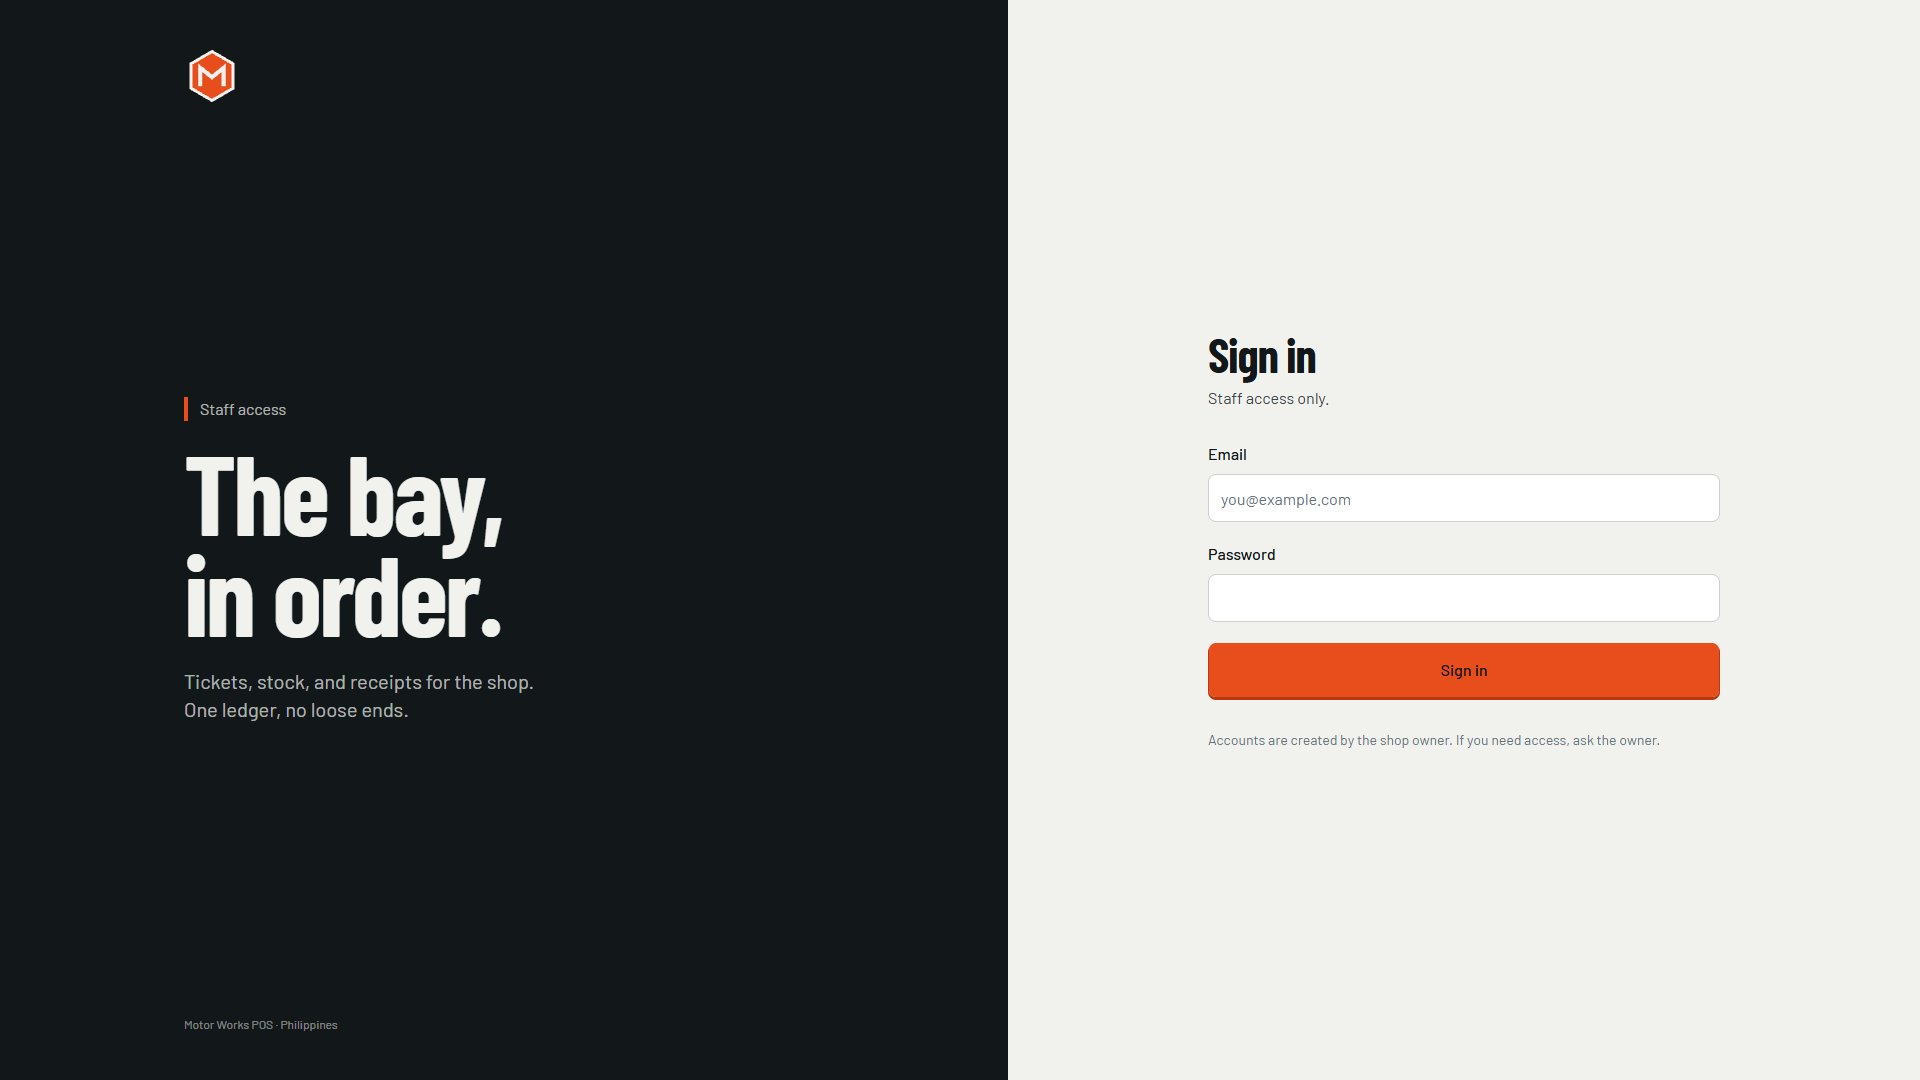
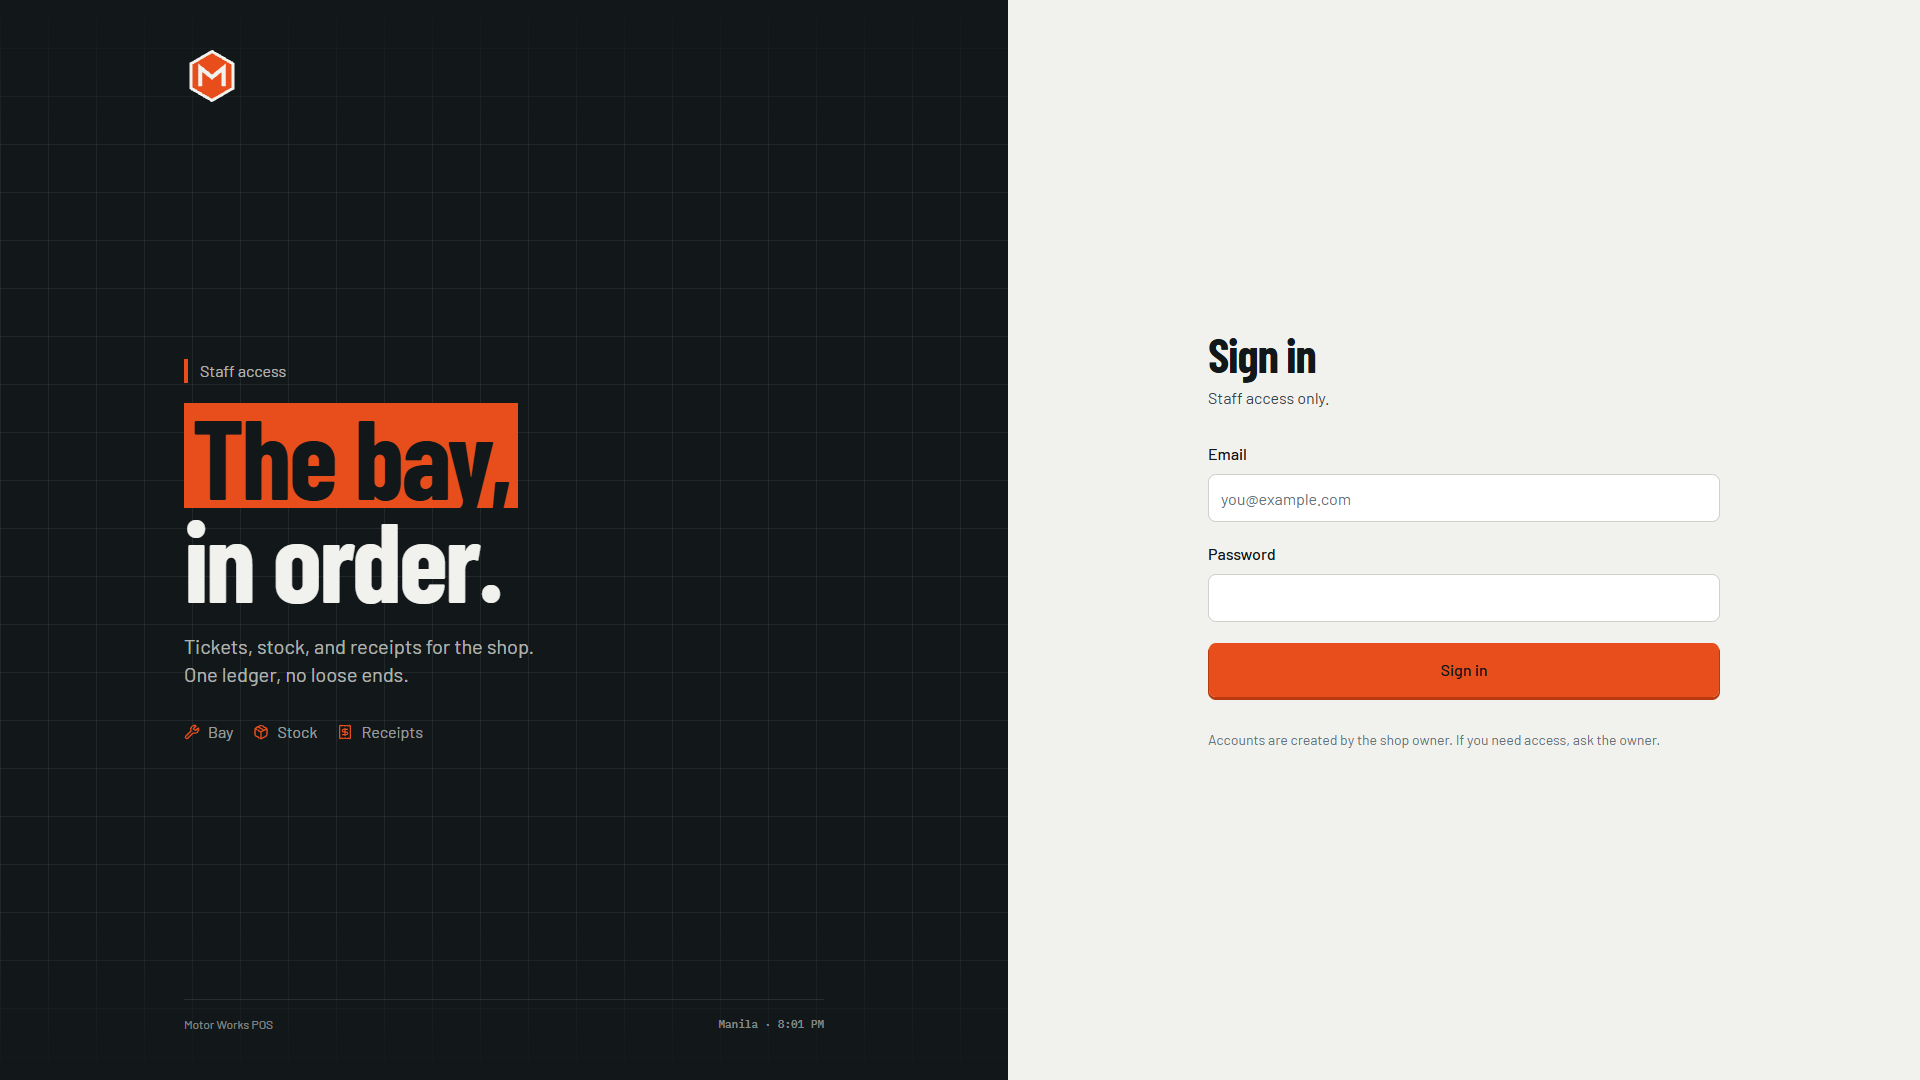
style: add workshop details to the login brand panel

Changed region(s): [[0.0938, 0.3361, 0.2812, 0.7028]]

diff --git a/src/features/auth/LoginPage.tsx b/src/features/auth/LoginPage.tsx
@@ -1,4 +1,5 @@
 import { zodResolver } from '@hookform/resolvers/zod';
+import { Package, Receipt, Wrench } from 'lucide-react';
 import { useEffect, useState } from 'react';
 import { useForm } from 'react-hook-form';
 import { useNavigate } from 'react-router';
@@ -8,6 +9,7 @@ import { FullPageLoading } from '@/components/FullPageLoading';
 import { Button } from '@/components/ui/button';
 import { Input } from '@/components/ui/input';
 import { Label } from '@/components/ui/label';
+import { useManilaClock } from '@/hooks/use-manila-clock';
 import { AppError } from '@/lib/errors';
 
 import { loginSchema, type LoginValues } from './schemas';
@@ -16,6 +18,7 @@ import { useAuth } from './use-auth';
 export function LoginPage() {
   const { status, signIn, error: authError } = useAuth();
   const navigate = useNavigate();
+  const manilaTime = useManilaClock();
   const [formError, setFormError] = useState<string | null>(null);
 
   const {
@@ -56,8 +59,10 @@ export function LoginPage() {
 
   return (
     <main className="bg-paper min-h-screen md:grid md:grid-cols-[1.05fr_0.95fr]">
-      <section className="bg-ink text-paper hidden p-8 md:flex xl:p-12">
-        <div className="mx-auto grid h-full w-full max-w-[40rem] grid-rows-[auto_1fr_auto]">
+      <section className="bg-ink text-paper relative hidden overflow-hidden p-8 md:flex xl:p-12">
+        <div aria-hidden="true" className="blueprint-grid pointer-events-none absolute inset-0" />
+
+        <div className="relative mx-auto grid h-full w-full max-w-[40rem] grid-rows-[auto_1fr_auto]">
           <BrandMark className="text-paper size-12 xl:size-14" title="Motor Works" />
 
           <div className="flex flex-col justify-center py-10">
@@ -65,7 +70,7 @@ export function LoginPage() {
               Staff access
             </p>
             <h1 className="font-display text-paper text-[clamp(3.25rem,6vw,7rem)] leading-[0.9] font-bold tracking-tight">
-              The bay,
+              <span className="bg-safety text-ink inline-block px-2 py-0.5">The bay,</span>
               <br />
               in order.
             </h1>
@@ -73,17 +78,38 @@ export function LoginPage() {
               Tickets, stock, and receipts for the shop.{' '}
               <span className="xl:block">One ledger, no loose ends.</span>
             </p>
+
+            <div className="text-paper/60 mt-8 flex flex-wrap items-center gap-x-5 gap-y-2 text-sm xl:text-base">
+              <span className="inline-flex items-center gap-2">
+                <Wrench className="text-safety size-4" aria-hidden="true" />
+                Bay
+              </span>
+              <span className="inline-flex items-center gap-2">
+                <Package className="text-safety size-4" aria-hidden="true" />
+                Stock
+              </span>
+              <span className="inline-flex items-center gap-2">
+                <Receipt className="text-safety size-4" aria-hidden="true" />
+                Receipts
+              </span>
+            </div>
           </div>
 
-          <p className="text-paper/50 text-xs">Motor Works POS · Philippines</p>
+          <div className="border-paper/10 text-paper/50 flex items-center justify-between gap-4 border-t pt-4 text-xs">
+            <span>Motor Works POS</span>
+            <span className="font-mono text-[11px]">Manila · {manilaTime}</span>
+          </div>
         </div>
       </section>
 
       <section className="flex min-h-screen items-center justify-center px-5 py-10 md:min-h-0 md:px-8 xl:px-12">
         <div className="w-full max-w-md xl:max-w-lg">
-          <div className="mb-8 md:hidden">
-            <BrandMark className="size-12" title="Motor Works" />
-            <p className="font-display mt-4 text-2xl font-bold tracking-tight">Motor Works POS</p>
+          <div className="mb-8 flex items-start justify-between gap-4 md:hidden">
+            <div>
+              <BrandMark className="size-12" title="Motor Works" />
+              <p className="font-display mt-4 text-2xl font-bold tracking-tight">Motor Works POS</p>
+            </div>
+            <span className="text-steel font-mono text-xs">Manila · {manilaTime}</span>
           </div>
 
           <h2 className="font-display text-4xl font-bold tracking-tight xl:text-5xl">Sign in</h2>

diff --git a/src/styles/globals.css b/src/styles/globals.css
@@ -76,6 +76,23 @@
   --color-ring: var(--ring);
 }
 
+.blueprint-grid {
+  background-image:
+    linear-gradient(
+      to right,
+      color-mix(in oklab, var(--color-paper) 7%, transparent) 1px,
+      transparent 1px
+    ),
+    linear-gradient(
+      to bottom,
+      color-mix(in oklab, var(--color-paper) 7%, transparent) 1px,
+      transparent 1px
+    );
+  background-size: 48px 48px;
+  -webkit-mask-image: linear-gradient(to bottom, transparent, #000 15%, #000 85%, transparent);
+  mask-image: linear-gradient(to bottom, transparent, #000 15%, #000 85%, transparent);
+}
+
 @layer base {
   * {
     border-color: var(--border);

diff --git a/tests/unit/login.test.tsx b/tests/unit/login.test.tsx
@@ -25,6 +25,15 @@ function renderLogin(value: AuthContextValue) {
   );
 }
 
+test('shows the shop capabilities and the Manila clock', () => {
+  renderLogin(signedOutValue());
+
+  expect(screen.getByText('Bay')).toBeInTheDocument();
+  expect(screen.getByText('Stock')).toBeInTheDocument();
+  expect(screen.getByText('Receipts')).toBeInTheDocument();
+  expect(screen.getAllByText(/Manila/).length).toBeGreaterThan(0);
+});
+
 test('shows validation messages on an empty submit', async () => {
   const user = userEvent.setup();
   renderLogin(signedOutValue());

diff --git a/src/hooks/use-manila-clock.ts b/src/hooks/use-manila-clock.ts
@@ -1,0 +1,22 @@
+import { useEffect, useState } from 'react';
+
+const manilaTime = new Intl.DateTimeFormat('en-PH', {
+  timeZone: 'Asia/Manila',
+  hour: 'numeric',
+  minute: '2-digit',
+  hour12: true,
+});
+
+export function useManilaClock(): string {
+  const [time, setTime] = useState(() => manilaTime.format(new Date()));
+
+  useEffect(() => {
+    const interval = window.setInterval(() => {
+      setTime(manilaTime.format(new Date()));
+    }, 30_000);
+
+    return () => window.clearInterval(interval);
+  }, []);
+
+  return time;
+}
